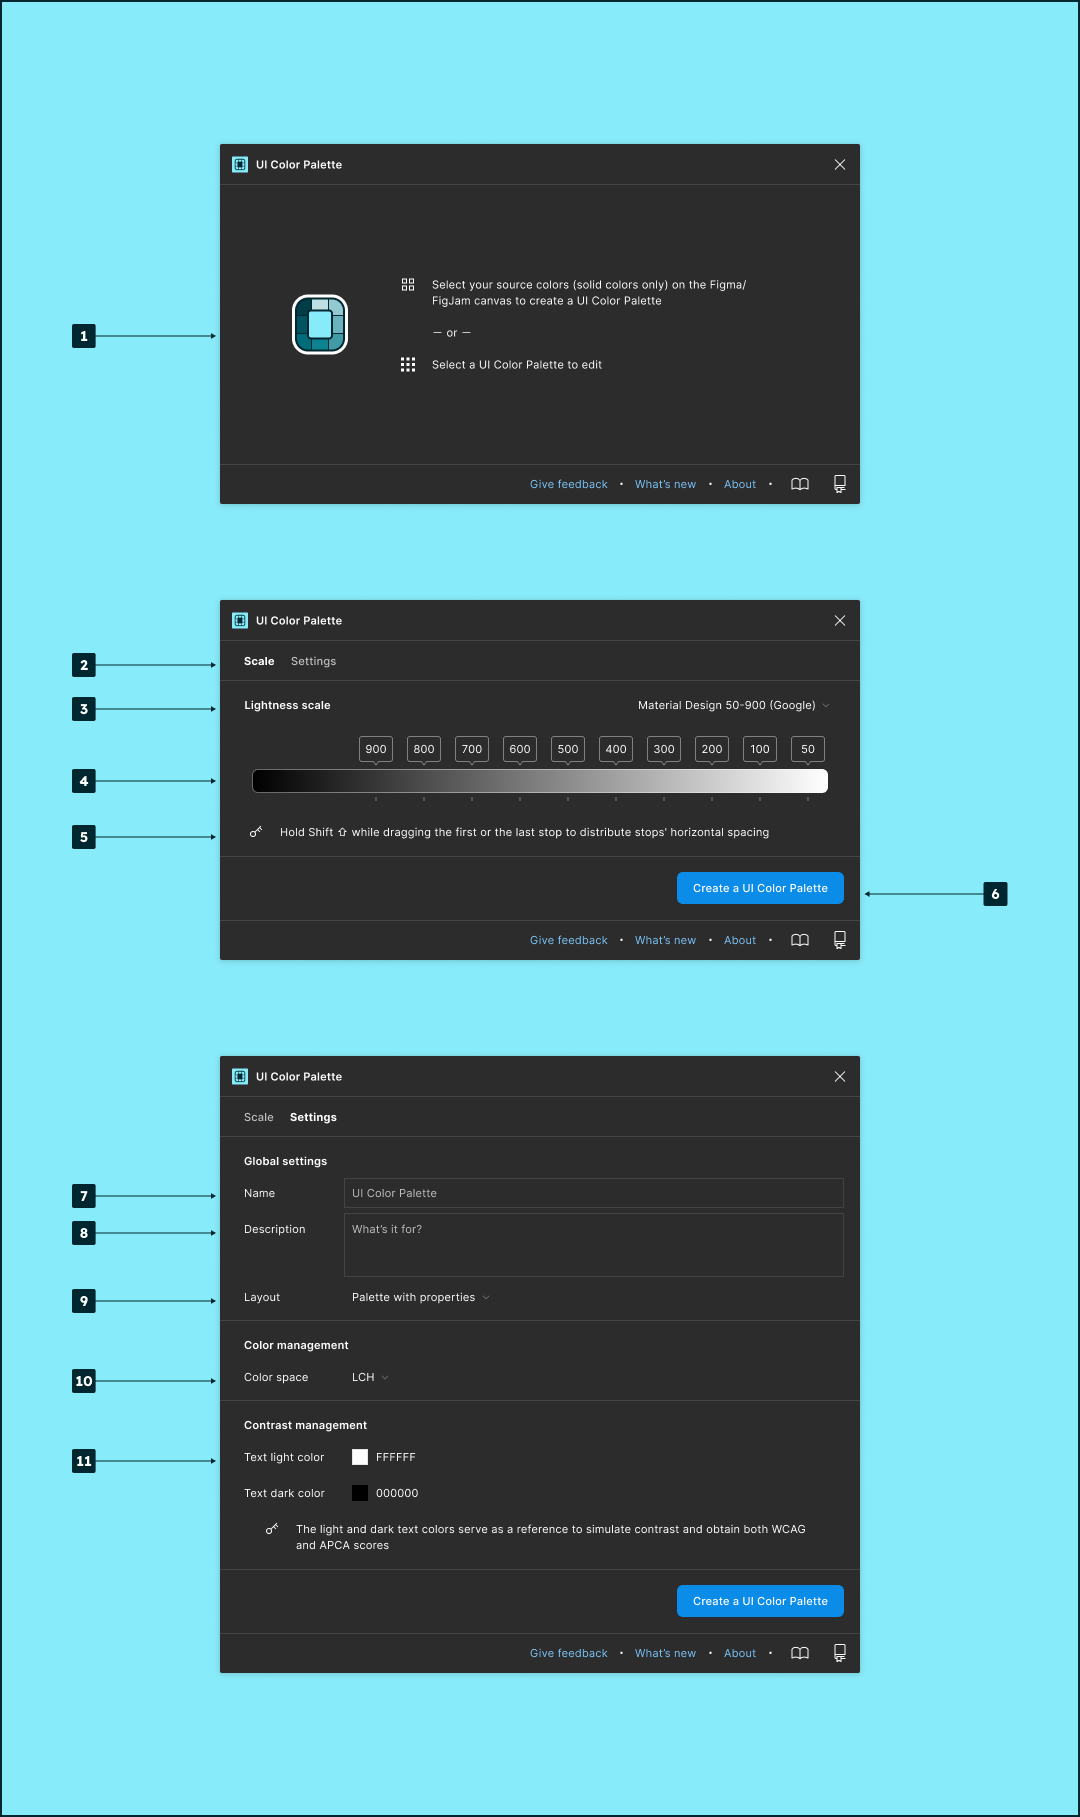
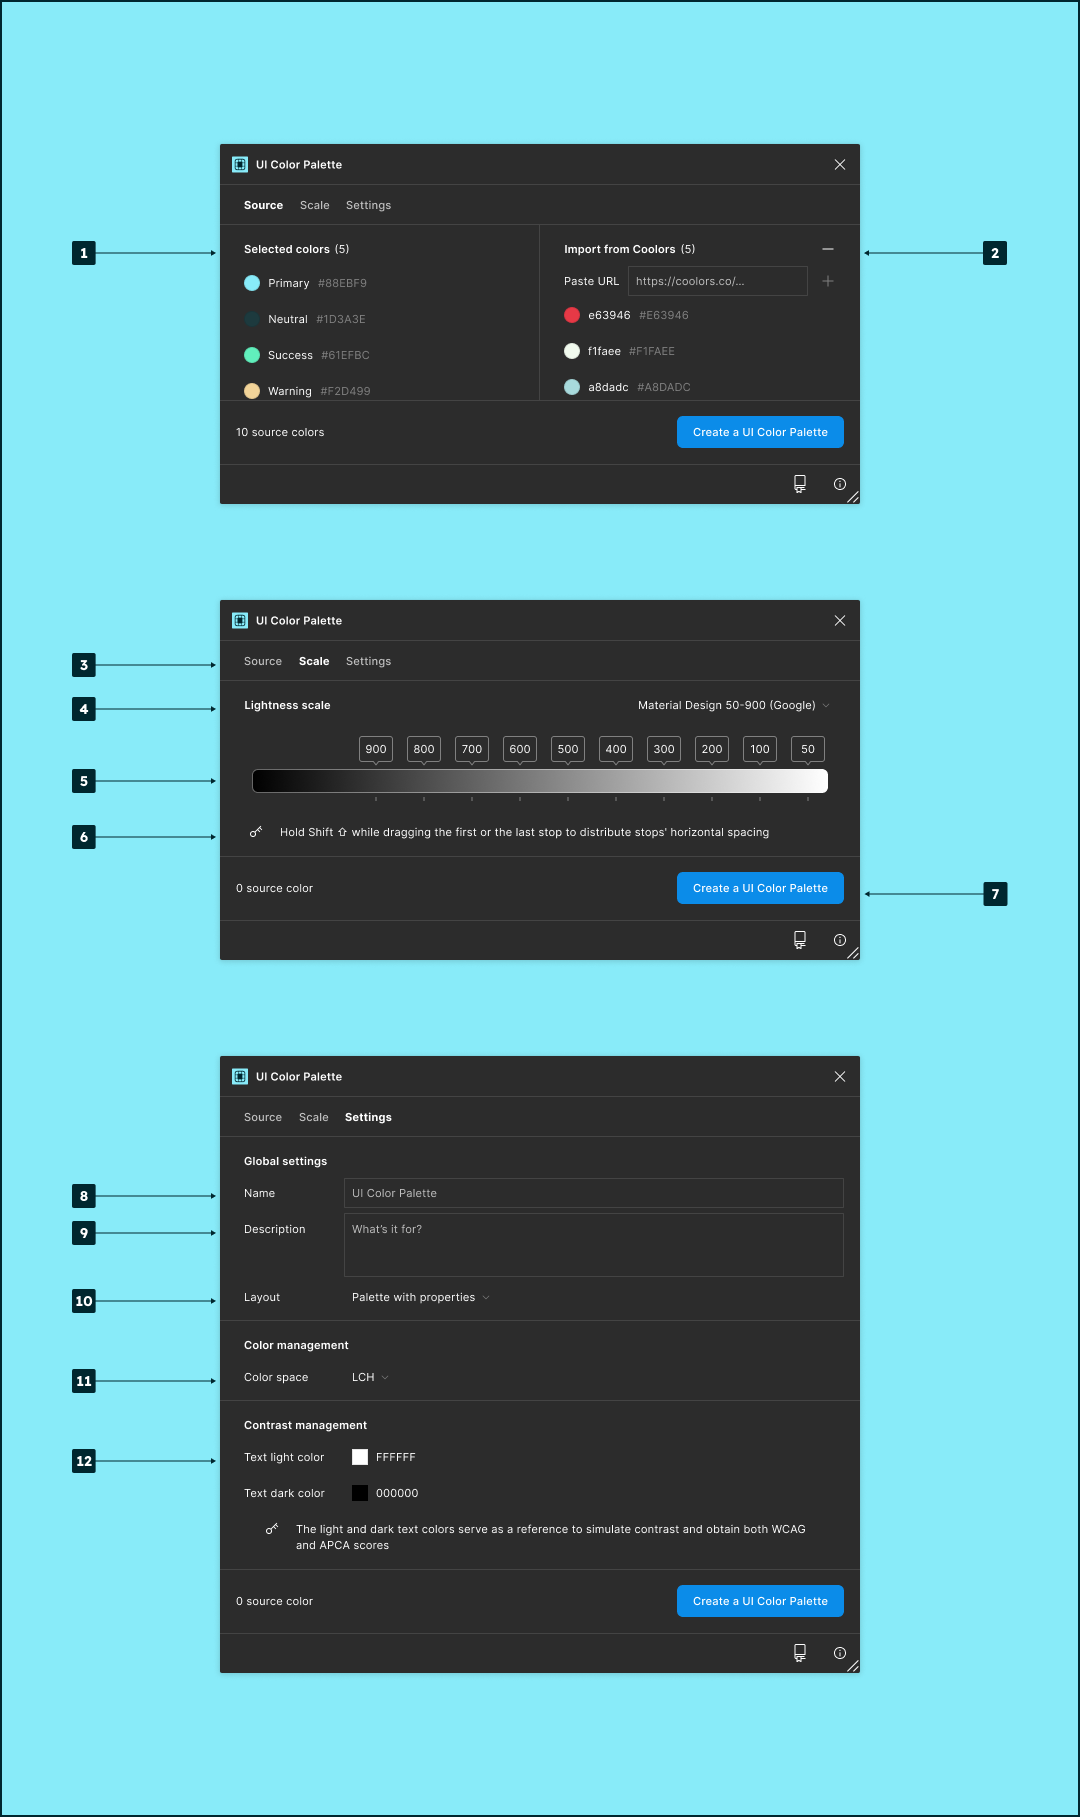
GITBOOK-28: V28

diff --git a/release-notes/ui-color-palette-28.md b/release-notes/ui-color-palette-28.md
@@ -1,0 +1,70 @@
+---
+description: Enhance the Color Palette Management Experience
+layout:
+  title:
+    visible: true
+  description:
+    visible: true
+  tableOfContents:
+    visible: false
+  outline:
+    visible: false
+  pagination:
+    visible: true
+---
+
+# UI Color Palette 28
+
+## Key Feature
+
+{% embed url="https://drive.google.com/file/d/1Jzv3tPijKpLceQ0UFs9v7H1LCF7j4MdU/view?usp=sharing" %}
+
+In the `Source` context when creating, you can view the selected colors (from the document canvas). Additionally, you're able to paste a URL from a Coolors palette to supplement your color collection prior to scaling.
+
+## Improvements
+
+### Create a palette in fewer steps
+
+{% embed url="https://drive.google.com/file/d/1YUhSouPZGRptcvA7rI-22p1FS4M2UUfx/view?usp=sharing" %}
+
+You can create a color palette using the quick action feature in just a few steps. Simply select the colors, choose the preset, specify the color space, and finally, name it using a simple input field.
+
+### Resize the plugin window
+
+{% embed url="https://drive.google.com/file/d/1sIntA06-_iF41iAiXgbXLiSRuJQJhmmY/view?usp=sharing" %}
+
+You can resize the plugin window to fit your workspace.
+
+### Control using your keyboard
+
+{% embed url="https://drive.google.com/file/d/1Y9LcVQVNY9hxpyEcakIYBglI_qDm_Rrz/view?usp=sharing" %}
+
+Achieve faster and intuitive control of the configuration using your keyboard. Navigate through the actions efficiently.
+
+### Gather the useful links in one place
+
+{% embed url="https://drive.google.com/file/d/1U0HbVQvx2twzg4diXEemgA13ApeOFW7f/view?usp=sharing" %}
+
+Helpful links, such as support, contact, external links, and news, are compiled into a single list.
+
+## Minor Changes
+
+* Enhance compatibility with Safari.
+* Enhance compatibility with Firefox.
+* Improve the Swift export
+
+## Bug fixes
+
+* Adjust the gap between the "Closest to Source" status and the properties.
+
+***
+
+Also, we want to remind you that we're always listening to your [feedback and suggestions](https://uicp.link/feedback), and we've made sure to incorporate your most recent feedback into these updates to ensure that they're tailored to your needs.
+
+You can now start a discussion to share your practices, write feedback, help the community, etc. [Get ready to write a topic!](https://uicp.link/discuss)
+
+Besides, you can always get support by sending us an email at [hello@ui-color-palette.com](mailto:hello@ui-color-palette.com) and help us improve the quality of UI Color Palette by [reporting a bug](https://uicp.link/report).
+
+Enjoy your updated UI Color Palette!
+
+UI Color Palette Team

diff --git a/create-a-color-palette/overview.md b/create-a-color-palette/overview.md
@@ -6,16 +6,17 @@ description: A quick glance at the controller
 
 <figure><img src="../.gitbook/assets/create_palette-overview.png" alt=""><figcaption></figcaption></figure>
 
-1. Lobby screen.
-2. Browse the inspector:
+1. The `Selected colors` from the document canvas.
+2. The selected colors from a `Coolors` palette.
+3. Browse the inspector:
    1. `Scale`: `Lightness scale` configuration.
    2. `Settings`: Palette configuration.
-3. Select a `Lightness scale` preset.
-4. Adjust the `Lightness scale`'s stops.
-5. Tip messages.
-6. Create the palette according to both the `Lightness scale` and the `Settings`.
-7. Change the palette `Name`.
-8. Change the palette `Description`.
-9. Change the palette `Layout`.
-10. Select the `Color space`.
-11. Adjust the `Text light color` and `Text dark color` on the color shades.
+4. Select a `Lightness scale` preset.
+5. Adjust the `Lightness scale`'s stops.
+6. Tip messages.
+7. Create the palette according to both the `Lightness scale` and the `Settings`.
+8. Change the palette `Name`.
+9. Change the palette `Description`.
+10. Change the palette `Layout`.
+11. Select the `Color space`.
+12. Adjust the `Text light color` and `Text dark color` on the color shades.

diff --git a/create-a-color-palette/select-the-starting-colors.md b/create-a-color-palette/select-the-starting-colors.md
@@ -2,8 +2,10 @@
 
 {% embed url="https://drive.google.com/file/d/1TigC0Ib3gd3_s4eePlFfBmIRxt4pCTJQ/view?usp=sharing" fullWidth="true" %}
 
-Select some filled layers to access the configuration. You might rename these layers because the palette will use the layer name as color name.
+Select some filled layers to access the configuration. You might rename these layers because the palette will use the layer name as a color name.
+
+In addition, the Pro plan allows you to import a palette from [Coolors](https://coolors.co/) by pasting its URL to the required field. The colors are named by default with their hexadecimal code.
 
 {% hint style="warning" %}
-The selected layers must have at least a solid color as `Fill` property.
+The selected layers must have a solid color as the `Fill` property.
 {% endhint %}

diff --git a/publish-and-transfer-a-color-palette/export-the-palette.md b/publish-and-transfer-a-color-palette/export-the-palette.md
@@ -156,17 +156,19 @@ You can export every color shade to a Swift file on your computer. This file use
 
 The export file follows this model:
 
-{% code overflow="wrap" %}
-```swift
-import SwiftUI
+<pre class="language-swift" data-overflow="wrap"><code class="lang-swift">import SwiftUI
 
-extension Color {
-  // themeName - sourceColorName
-  static let themeNameSourceColorNameStopName = Color(red: 0.133, green: 0.329, blue: 0.961)
-  ...
+<strong>public extension Color {
+</strong><strong>
+</strong>  static let Token = Color.TokenColor()
+  
+  struct TokenColor {
+    // themeName - sourceColorName
+    public let themeNameSourceColorNameStopName = Color(red: 0.133, green: 0.329, blue: 0.961)
+    ...
+  }
 }
-```
-{% endcode %}
+</code></pre>
 
 ## Export as Resources to XML (Android)・Pro
 

diff --git a/SUMMARY.md b/SUMMARY.md
@@ -11,6 +11,7 @@
 * [Choose a lightness scale preset](create-a-color-palette/choose-a-lightness-scale-preset.md)
 * [Set the lightness scale stops](create-a-color-palette/set-the-lightness-scale-stops.md)
 * [Configure and create the color palette](create-a-color-palette/create-the-color-palette.md)
+* [Use the Quick Actions to create](create-a-color-palette/use-the-quick-actions-to-create.md)
 
 ## Edit a color palette
 
@@ -43,3 +44,4 @@
   * [UI Color Palette 24](release-notes/ui-color-palette-24.md)
   * [UI Color Palette 25](release-notes/ui-color-palette-25.md)
   * [UI Color Palette 26](release-notes/ui-color-palette-26.md)
+  * [UI Color Palette 28](release-notes/ui-color-palette-28.md)

diff --git a/create-a-color-palette/use-the-quick-actions-to-create.md b/create-a-color-palette/use-the-quick-actions-to-create.md
@@ -1,0 +1,14 @@
+# Use the Quick Actions to create
+
+{% embed url="https://drive.google.com/file/d/1revKgHUiRPOicUGQci8g_tH89h5dkg1x/view?usp=sharing" %}
+
+You can use the Quick Actions feature to access a specific wizard that allows you to select:
+
+* The `Preset`
+* The `Color space`
+* The `Layout`
+* The `Name`
+
+{% hint style="info" %}
+Every step gives you suggestions, but the last one is free.
+{% endhint %}
